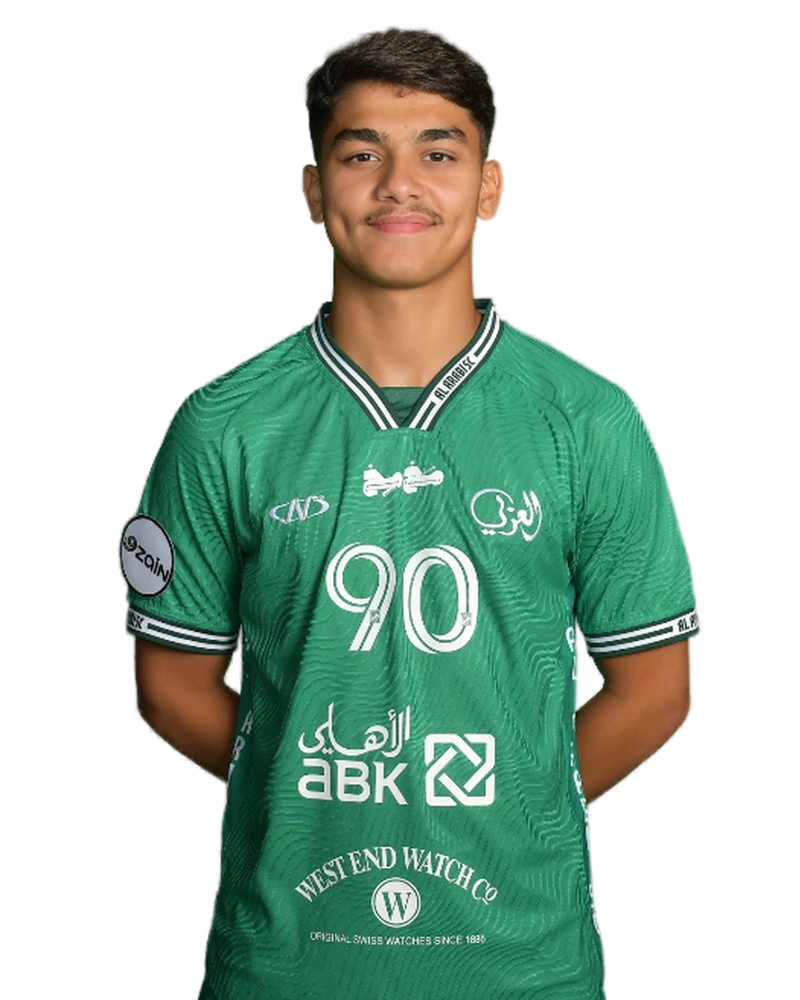
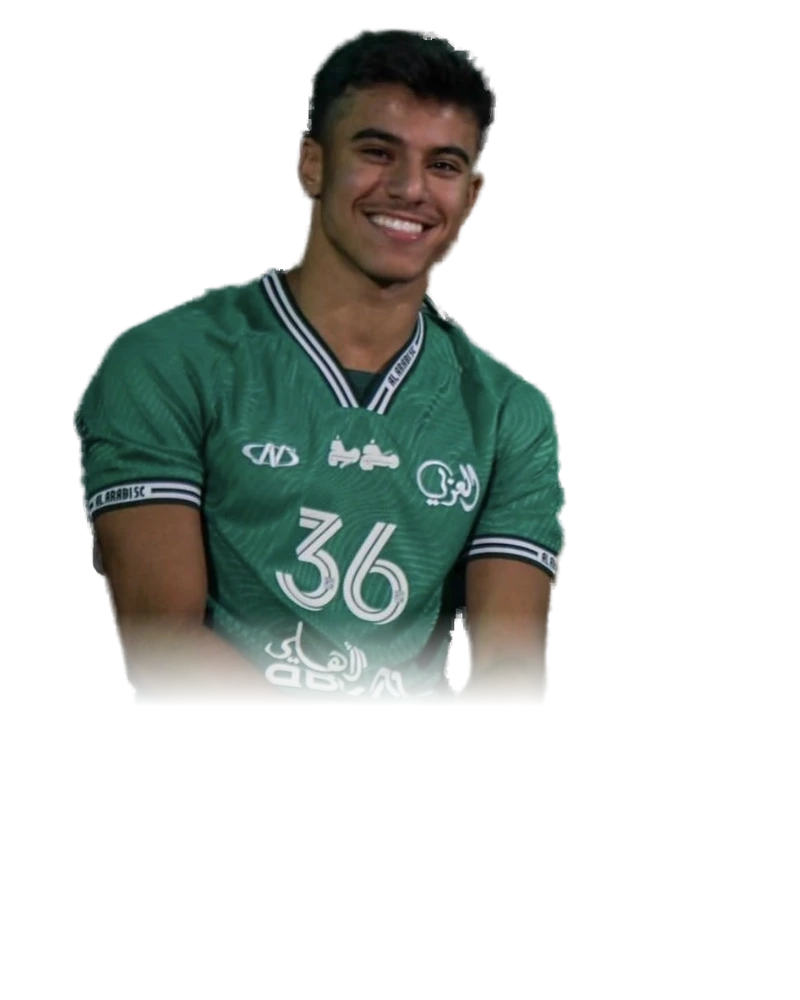
عايد ماجد 36: صورة جديدة بقميص 36 بدل صورة جلسة التصوير (90) — إضافة فاضل الصراف (الساحل 20، جناح أيسر) للموقع والفانتسي مع صورته — صور ?v=23، PLAYER_PHOTOS_VER 25، fantasy 237، sw -153

diff --git a/fantasy/index.html b/fantasy/index.html
@@ -12,7 +12,7 @@
 <link rel="preconnect" href="https://fonts.googleapis.com">
 <link rel="preconnect" href="https://fonts.gstatic.com" crossorigin>
 <link href="https://fonts.googleapis.com/css2?family=Vazirmatn:wght@300;400;500;600;700;800&display=swap" rel="stylesheet">
-<link rel="stylesheet" href="css/style.css?v=236">
+<link rel="stylesheet" href="css/style.css?v=237">
 <script src="https://cdnjs.cloudflare.com/ajax/libs/firebase/10.12.2/firebase-app-compat.min.js"></script>
 <script src="https://cdnjs.cloudflare.com/ajax/libs/firebase/10.12.2/firebase-auth-compat.min.js"></script>
 <script src="https://cdnjs.cloudflare.com/ajax/libs/firebase/10.12.2/firebase-firestore-compat.min.js"></script>
@@ -20,13 +20,13 @@
 </head>
 <body>
   <div id="splash">
-    <div class="splash-card"><img class="splash-logo" src="assets/logo-light.png?v=236" alt="Kuwait Fantasy League"></div>
+    <div class="splash-card"><img class="splash-logo" src="assets/logo-light.png?v=237" alt="Kuwait Fantasy League"></div>
   </div>
 
   <header id="topbar" style="display:none">
     <div id="brand" onclick="APP.go('dashboard')">
-      <img class="brand-lockup lk-dark" src="assets/logo-dark.png?v=236" alt="Kuwait Fantasy League">
-      <img class="brand-lockup lk-light" src="assets/logo-light.png?v=236" alt="Kuwait Fantasy League">
+      <img class="brand-lockup lk-dark" src="assets/logo-dark.png?v=237" alt="Kuwait Fantasy League">
+      <img class="brand-lockup lk-light" src="assets/logo-light.png?v=237" alt="Kuwait Fantasy League">
     </div>
     <a id="toSite" href="/" title="العودة للموقع">
       <svg viewBox="0 0 24 24" width="16" height="16" fill="none" stroke="currentColor" stroke-width="2.2" stroke-linecap="round" stroke-linejoin="round" aria-hidden="true"><path d="M9 6l6 6-6 6"/></svg>
@@ -41,28 +41,28 @@
   <nav id="bottomnav"></nav>
   <div id="toasts"></div>
 
-  <script src="js/cloud.js?v=236"></script>
-  <script src="js/data.js?v=236"></script>
-  <script src="js/engine.js?v=236"></script>
-  <script src="js/ui.js?v=236"></script>
-  <script src="js/photos.js?v=236"></script>
-  <script src="js/kits.js?v=236"></script>
-  <script src="js/kits-number.js?v=236"></script>
-  <script src="js/moderation.js?v=236"></script>
-  <script src="js/views.js?v=236"></script>
-  <script src="js/picker.js?v=236"></script>
-  <script src="js/extras.js?v=236"></script>
-  <script src="js/push.js?v=236"></script>
-  <script src="js/adminauth.js?v=236"></script>
-  <script src="js/admin.js?v=236"></script>
-  <script src="js/guide.js?v=236"></script>
-  <script src="js/live-gw.js?v=236"></script>
-  <script src="js/points.js?v=236"></script>
-  <script src="js/mfsync.js?v=236"></script>
-  <script src="js/roster-sync.js?v=236"></script>
-  <script src="js/app.js?v=236"></script>
-  <script src="js/i18n.js?v=236"></script>
-  <script src="js/i18n-more.js?v=236"></script>
-  <script src="js/gate.js?v=236"></script>
+  <script src="js/cloud.js?v=237"></script>
+  <script src="js/data.js?v=237"></script>
+  <script src="js/engine.js?v=237"></script>
+  <script src="js/ui.js?v=237"></script>
+  <script src="js/photos.js?v=237"></script>
+  <script src="js/kits.js?v=237"></script>
+  <script src="js/kits-number.js?v=237"></script>
+  <script src="js/moderation.js?v=237"></script>
+  <script src="js/views.js?v=237"></script>
+  <script src="js/picker.js?v=237"></script>
+  <script src="js/extras.js?v=237"></script>
+  <script src="js/push.js?v=237"></script>
+  <script src="js/adminauth.js?v=237"></script>
+  <script src="js/admin.js?v=237"></script>
+  <script src="js/guide.js?v=237"></script>
+  <script src="js/live-gw.js?v=237"></script>
+  <script src="js/points.js?v=237"></script>
+  <script src="js/mfsync.js?v=237"></script>
+  <script src="js/roster-sync.js?v=237"></script>
+  <script src="js/app.js?v=237"></script>
+  <script src="js/i18n.js?v=237"></script>
+  <script src="js/i18n-more.js?v=237"></script>
+  <script src="js/gate.js?v=237"></script>
 </body>
 </html>

diff --git a/fantasy/js/i18n-more.js b/fantasy/js/i18n-more.js
@@ -131,7 +131,7 @@ const NAMES_EN = {
   'فهد السلامه':'Fahad Al-Salama', 'تركي المطيري':'Turki Al-Mutairi', 'أحمد الشمري':'Ahmad Al-Shammari', 'كيريست افالانا':'Kirist Avalana',
   // الفحيحيل
   'علي فاضل':'Ali Fadhel', 'احمد دشتي':'Ahmad Dashti', 'حسين دشتي':'Hussain Dashti', 'فهد سياف':'Fahad Sayyaf', 'مشعل رومي':'Meshal Roumi',
-  'محمد نعيم':'Mohammad Naeem', 'احمد النصر':'Ahmad Al-Nasr', 'كارلوس':'Carlos', 'جاسم كرم':'Jassim Karam', 'فهد الشلال':'Fahad Al-Shallal', 'عبدالعزيز ناجي':'Abdulaziz Naji',
+  'محمد نعيم':'Mohammad Naeem', 'احمد النصر':'Ahmad Al-Nasr', 'كارلوس':'Carlos', 'جاسم كرم':'Jassim Karam', 'فهد الشلال':'Fahad Al-Shallal', 'فاضل الصراف':'Fadhel Al-Sarraf', 'عبدالعزيز ناجي':'Abdulaziz Naji',
   'محمد الفارسي':'Mohammad Al-Farsi', 'هاشم عدنان':'Hashem Adnan', 'حمد الطويل':'Hamad Al-Tawil', 'عمر المطر':'Omar Al-Matar', 'سلمان البوص':'Salman Al-Bous',
   'شريدة الشريدة':'Shuraida Al-Shuraida', 'جاتوش بانوم':'Gatoch Panom', 'رانجا شيفافيرو':'Ranga Chivaviro', 'الفين فورتيس':'Alvin Fortes',
   'همام صبحي':'Humam Sobhi', 'فيتور دا سيلفا':'Vitor Da Silva', 'خالد سليمان الشمري':'Khalid Sulaiman Al-Shammari',

diff --git a/fantasy/js/mfsync.js b/fantasy/js/mfsync.js
@@ -10,6 +10,7 @@ const MF_SQUAD_ADD = {
   'العربي': [ {n:'وليد ولد الشيخ', p:'CAM', s:0, price:8.5}, {n:'علي عبدالرسول', p:'LB', s:16}, {n:'علي الدوخي', p:'ST', s:9}, {n:'عمر العازمي', p:'CM', s:27}, {n:'حسين كنكوني', p:'GK', s:1}, {n:'حسين العريان', p:'ST', s:99}, {n:'عايد ماجد', p:'CB', s:36}, {n:'يوسف صباح', p:'CAM', s:70}, {n:'حمد الحربي', p:'CDM', s:12} ],
   'النصر':  [ {n:'مسفر العدواني', p:'ST', s:0}, {n:'ابراهيم الظفيري', p:'CM', s:25}, {n:'احمد الرشيدي', p:'CB', s:14}, {n:'محمد عجاج', p:'GK', s:1}, {n:'مزيد نواف', p:'ST', s:88} ],   /* بلا سعر مقترح: يحدّده المدير في «لاعبون جدد بانتظار التأكيد» */
   'الفحيحيل': [ {n:'فهد الشلال', p:'LM', s:19} ],
+  'الساحل': [ {n:'فاضل الصراف', p:'LM', s:20} ],
 };
 /* انتقالات (نفس SQUAD_MOVE في index.html): تُطبّق على squads عند القراءة، فيلتقطها سحب الكشوفات كانتقال ويبقى السعر. */
 /* تصحيح رقم القميص (نفس SQUAD_NUM في index.html) */

diff --git a/fantasy/js/photos.js b/fantasy/js/photos.js
@@ -4,7 +4,7 @@
 'use strict';
 
 /* رقم نسخة الصور: ارفعه عند إعادة توليد أي قصّة حتى لا يبقى المتصفح على النسخة القديمة */
-const PLAYER_PHOTOS_VER = '24';
+const PLAYER_PHOTOS_VER = '25';
 
 const PLAYER_PHOTOS = {
   // الصليبخات (17)
@@ -66,6 +66,7 @@ const PLAYER_PHOTOS = {
   'SAH|حمزه زياد': '/assets/players/sah/66',
   'SAH|راشد بن علي': '/assets/players/sah/77',
   'SAH|غازي العتيبي': '/assets/players/sah/87',
+  'SAH|فاضل الصراف': '/assets/players/sah/20',
   // الشباب (16)
   'SHB|منير السبيعي': '/assets/players/shb/5',   // مطابقة وجه مع ملصقات النادي
   'SHB|عبدالرحمن رفاعي': '/assets/players/shb/6',

diff --git a/sw.js b/sw.js
@@ -9,7 +9,7 @@
 
    عند كل نشر: ارفع رقم VER فتُبنى ذاكرة جديدة وتُحذف القديمة.
    ========================================================= */
-const VER   = 'mf-2026-09-17-152';
+const VER   = 'mf-2026-09-17-153';
 const SHELL = 'shell-' + VER;
 const RUN   = 'run-'   + VER;
 
